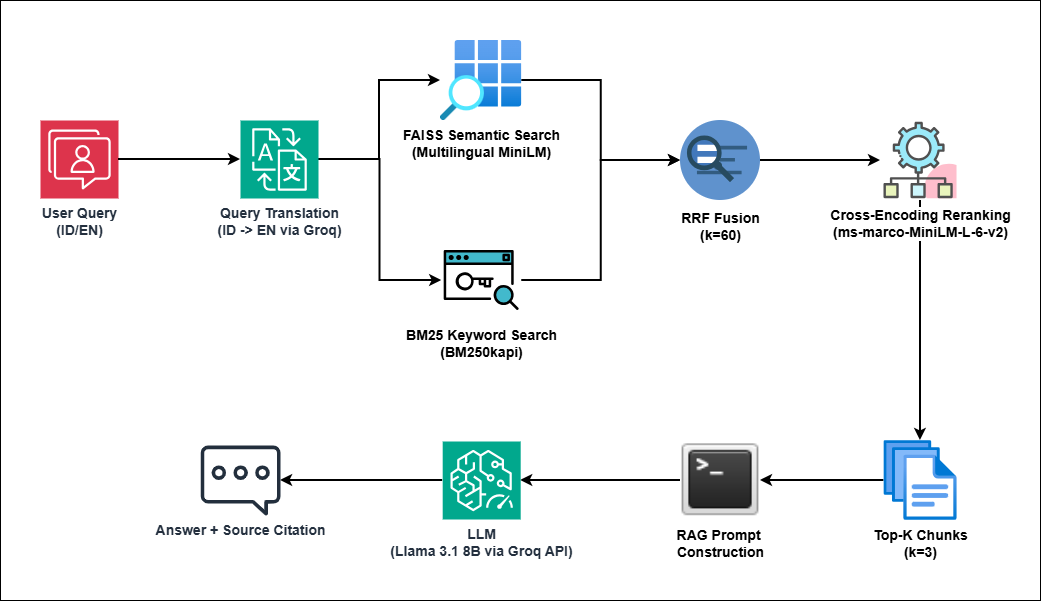
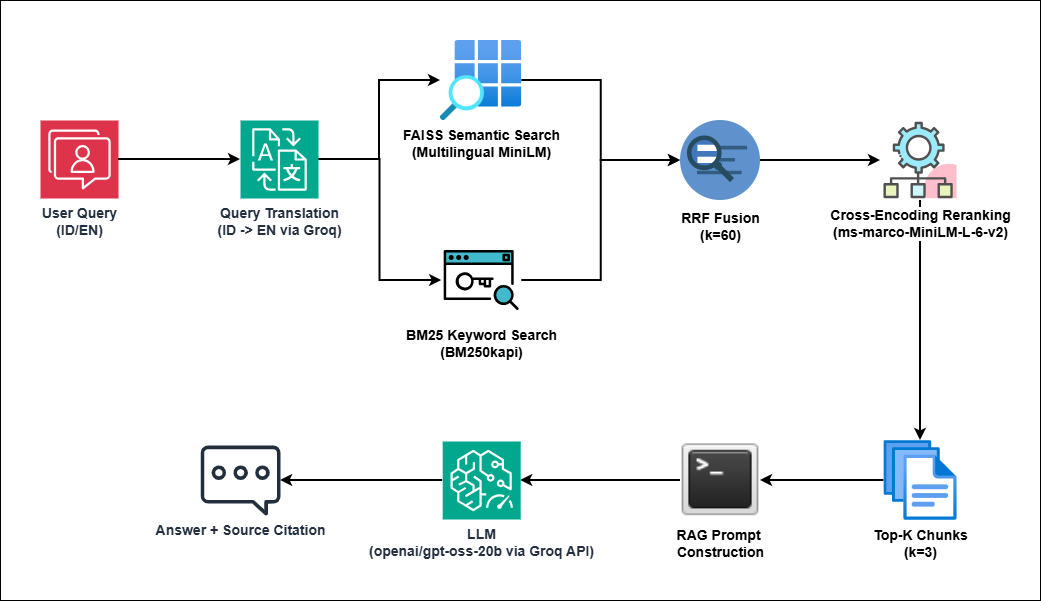
docs: update docs for clear information

diff --git a/README.md b/README.md
@@ -11,19 +11,33 @@
 
 ## Table of Contents
 
-- [Overview](#overview)
-- [Problem Statement](#problem-statement)
-- [Features](#features)
-- [Architecture](#architecture)
-- [Tech Stack](#tech-stack)
-- [Project Structure](#project-structure)
-- [Getting Started](#getting-started)
-- [API Reference](#api-reference)
-- [Evaluation](#evaluation)
-- [Knowledge Base](#knowledge-base)
-- [Limitations](#limitations)
-- [Roadmap](#roadmap)
-- [Author](#author)
+- [NutriGuide — RAG-Based Pediatric Nutrition Assistant](#nutriguide--rag-based-pediatric-nutrition-assistant)
+  - [Table of Contents](#table-of-contents)
+  - [Overview](#overview)
+  - [Problem Statement](#problem-statement)
+  - [Features](#features)
+  - [Architecture](#architecture)
+    - [Indexing Pipeline (Offline)](#indexing-pipeline-offline)
+  - [Tech Stack](#tech-stack)
+  - [Project Structure](#project-structure)
+  - [Getting Started](#getting-started)
+    - [Prerequisites](#prerequisites)
+    - [1. Clone the repository](#1-clone-the-repository)
+    - [2. Setup backend environment](#2-setup-backend-environment)
+    - [3. Configure environment variables](#3-configure-environment-variables)
+    - [4. Add knowledge base PDFs](#4-add-knowledge-base-pdfs)
+    - [5. Build the index](#5-build-the-index)
+    - [6. Start the backend](#6-start-the-backend)
+    - [7. Setup and start the frontend](#7-setup-and-start-the-frontend)
+  - [API Reference](#api-reference)
+    - [POST `/api/v1/chat`](#post-apiv1chat)
+    - [GET `/api/v1/health`](#get-apiv1health)
+  - [Evaluation](#evaluation)
+  - [Knowledge Base](#knowledge-base)
+  - [Limitations](#limitations)
+  - [Roadmap](#roadmap)
+  - [Author](#author)
+  - [License](#license)
 
 ---
 
@@ -33,8 +47,8 @@ NutriGuide is a production-grade RAG (Retrieval-Augmented Generation) applicatio
 
 Every answer is accompanied by source citations, allowing users to trace back to the exact document and page that informed the response.
 
-**Live Demo:** [Coming soon — HuggingFace Spaces]  
-**Portfolio:** [syahrulgunawanramdhani-portfolio.web.app/](https://syahrulgunawanramdhani-portfolio.web.app/)
+**Live Demo:** [nutriguide-rag.vercel.app](https://nutriguide-rag.vercel.app/)  
+**Portfolio:** [syahrulgunawanramdhani-portfolio.web.app](https://syahrulgunawanramdhani-portfolio.web.app/)
 
 ---
 
@@ -79,7 +93,7 @@ NutriGuide addresses these problems by combining hybrid retrieval over official 
 | Layer | Technology |
 |-------|-----------|
 | **Backend** | FastAPI, Python 3.10, Pydantic v2 |
-| **LLM** | Groq API (Llama 3.1 8B Instant) |
+| **LLM** | Groq API (Openai/gpt-oss-20B) |
 | **Embeddings** | sentence-transformers/paraphrase-multilingual-MiniLM-L12-v2 |
 | **Vector Store** | FAISS (IndexFlatIP) |
 | **Keyword Search** | BM25Okapi (rank-bm25) |
@@ -275,7 +289,7 @@ Check API and pipeline status.
 {
   "status": "healthy",
   "pipeline_loaded": true,
-  "model": "llama-3.1-8b-instant"
+  "model": "openai/gpt-oss-20b"
 }
 ```
 
